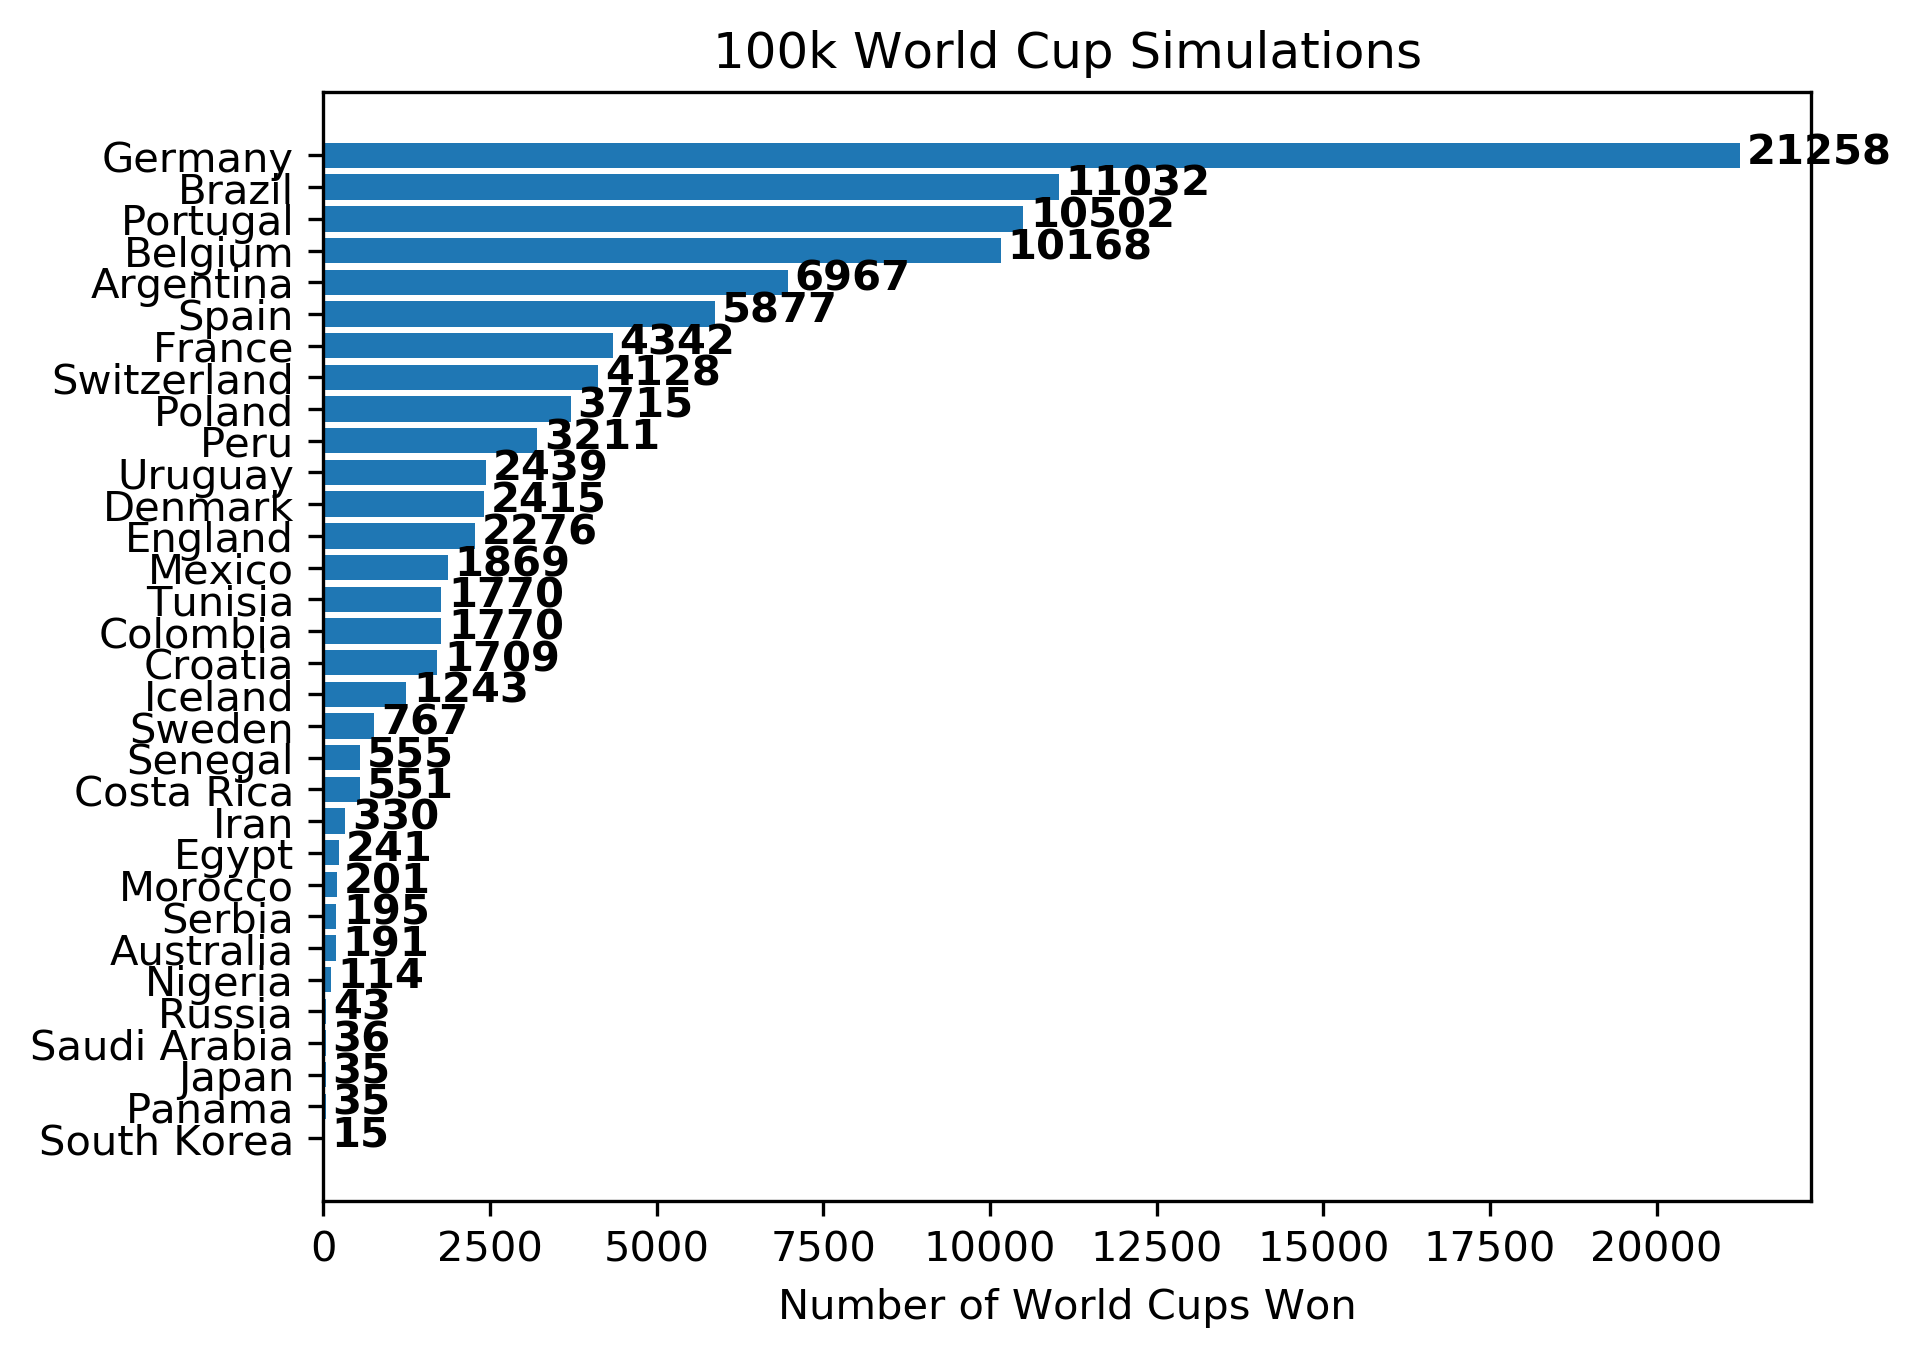
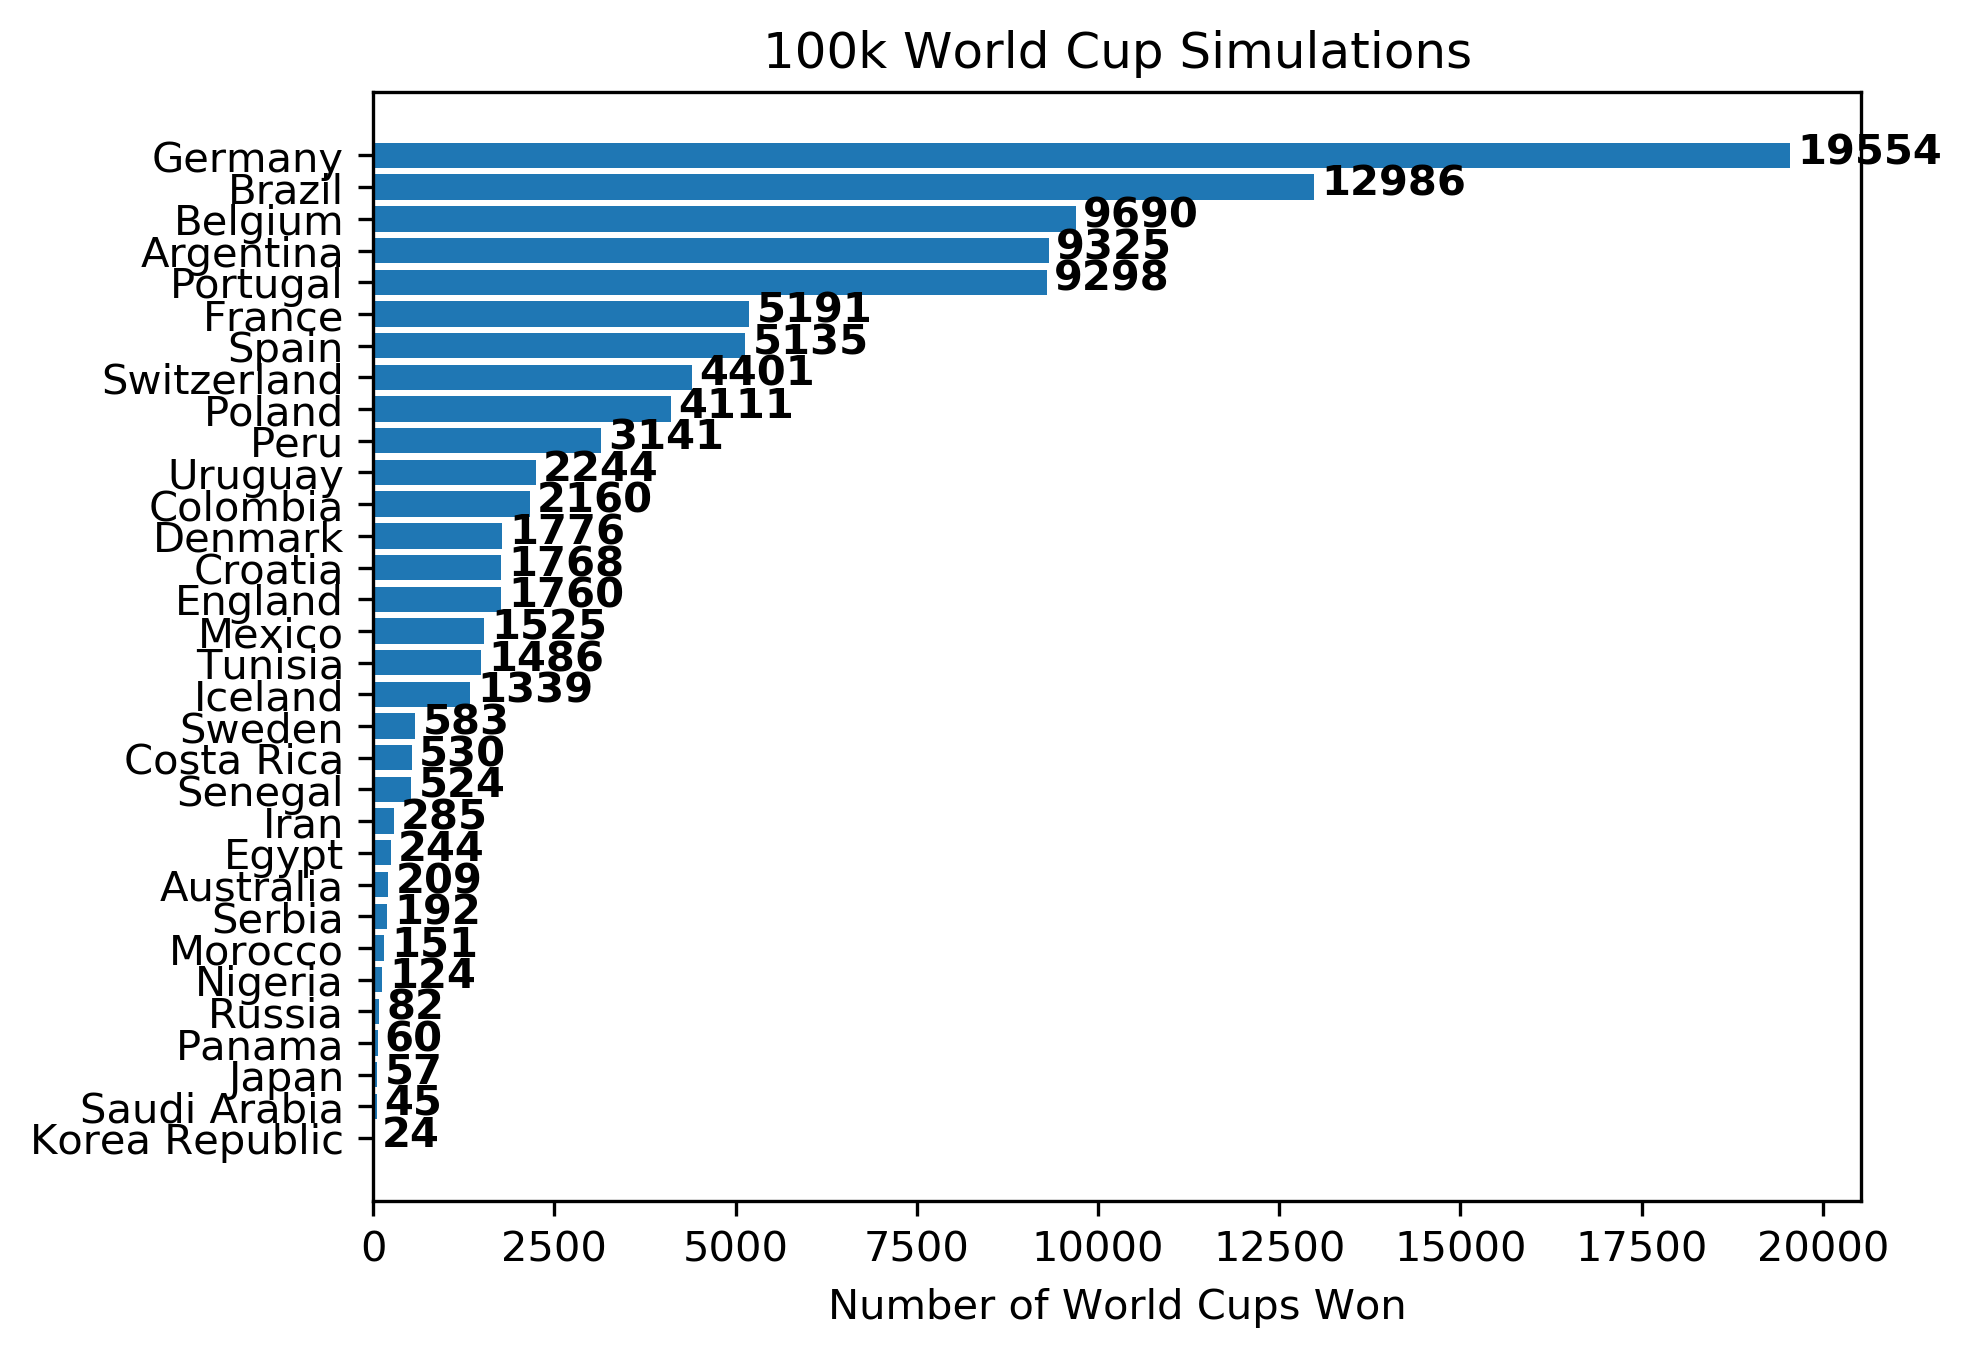
removed individual game reporting as standard. Improved the example presentation so that exmaples are activated with a true or false command. the results image is from the latest 100K simulations.

diff --git a/World_Cup_2018_Simulator.py b/World_Cup_2018_Simulator.py
@@ -21,7 +21,7 @@ def update_world_points(team1, team2, team1_goals, team2_goals):
         confederation_strength = (team.confederation_weight + opponent.confederation_weight)/2
         # calculate how many points this fixture earned
         points_from_this_fixture = team_points * match_importance * opponent_strength * confederation_strength
-        print(team.team + ' points for this fixture: ' + str(int(points_from_this_fixture)))
+        # print(team.team + ' FIFA points for this fixture: ' + str(int(points_from_this_fixture)))
         # find the total points earned from this year so far
         this_years_points_new = team.this_years_points * team.games_in_last_year + points_from_this_fixture
         # update the number of games
@@ -29,8 +29,8 @@ def update_world_points(team1, team2, team1_goals, team2_goals):
         # re calculate the points earned this year (calculated as an average)
         team.this_years_points = this_years_points_new / team.games_in_last_year
         # update the total points of this team
-        print('Points change for ' + team.team + ' from ' + str(int(team.fifa_points)) + ' to '
-              + str(int(team.previous_years_points + team.this_years_points)))
+        # print('Fifa points change for ' + team.team + ' from ' + str(int(team.fifa_points)) + ' to '
+        #      + str(int(team.previous_years_points + team.this_years_points)))
         new_fifa_points = team.previous_years_points + team.this_years_points
         return new_fifa_points
 
@@ -297,56 +297,65 @@ class Team:
 #####################################################################################################################
 #
 # Use the simulator once and print the results
-world_cup_simulator(reporting=True)
+run_example = False
+if run_example:
+    world_cup_simulator(reporting=True)
 
-## Return the class instance of the winning team without reporting the results
-# champions = world_cup_simulator(reporting=False)
-#
-## Perform multiple world cups and print out only the winner
-# for i in range(100):
-#     print(world_cup_simulator(reporting=False))
-#
-#
-## The user interaction version from JezPalf returning the top 5 winners
-# def multiple_simulations(n):
-#     winners = []
-#     for _ in range(n):
-#         winners.append(str((world_cup_simulator(reporting=False))))
-#
-#     top_five = Counter(winners).most_common(5)
-#     print('The teams with the most world cup wins are:')
-#     pprint.pprint(top_five)
-#
-#
-# answer = input('Would you like a [d]etailed simulation or run [m]ultiple simulations? ')
-# if answer == 'd':
-#     world_cup_simulator(reporting=True)
-#
-# elif answer == 'm':
-#     num = int(input('How many times would you like to run the simulation? '))
-#     multiple_simulations(num)
-#
-## Create statistics of all teams over many world cups
-# winners = []
-# n = 1000
-# for i in range(n):
-#     champs = world_cup_simulator(reporting=False)
-#     print(str(i) + ': ' + str(champs))
-#     winners.append(str(champs))
-#
-# world_cup_winners = Counter(winners).most_common()[:-32-1:-1]
-#
-# teams = []
-# tally = np.zeros((len(world_cup_winners)))
-# for i in range(len(world_cup_winners)):
-#     teams.append(world_cup_winners[i][0])
-#     tally[i] = world_cup_winners[i][1]
-#
-# fig, ax = plt.subplots()
-# plt.barh(np.arange(0, len(world_cup_winners)), tally, tick_label=teams)
-# plt.xlabel('Number of World Cups Won')
-# plt.title(str(int(n/1000)) + 'k World Cup Simulations')
-# for i, v in enumerate(tally):
-#     ax.text(v + int(round(n*0.001)), i-0.25, str(int(v)), color='black', fontweight='bold')
-# plt.savefig('results.png', dpi=300, format='png', bbox_inches='tight')
-# plt.show()
+# Return the class instance of the winning team without reporting the results
+run_example = False
+if run_example:
+    champions = world_cup_simulator(reporting=False)
+
+# Perform multiple world cups and print out only the winner
+run_example = False
+if run_example:
+    for i in range(100):
+        print(world_cup_simulator(reporting=False))
+
+
+# The user interaction version from JezPalf returning the top 5 winners
+run_example = False
+if run_example:
+
+    def multiple_simulations(n):
+        wc_champs = []
+        for _ in range(n):
+            wc_champs.append(str((world_cup_simulator(reporting=False))))
+
+        top_five = Counter(wc_champs).most_common(5)
+        print('The teams with the most world cup wins are:')
+        pprint.pprint(top_five)
+
+
+    answer = input('Would you like a [d]etailed simulation or run [m]ultiple simulations? ')
+    if answer == 'd':
+        world_cup_simulator(reporting=True)
+
+    elif answer == 'm':
+        num = int(input('How many times would you like to run the simulation? '))
+        multiple_simulations(num)
+
+
+# Create statistics of all teams over many world cups
+run_example = True
+if run_example:
+    winners = []
+    n = 100000
+    for i in range(n):
+        champs = world_cup_simulator(reporting=False)
+        print(str(i) + ': ' + str(champs))
+        winners.append(str(champs))
+    world_cup_winners = Counter(winners).most_common()[:-32-1:-1]
+    teams = []
+    tally = np.zeros((len(world_cup_winners)))
+    for i in range(len(world_cup_winners)):
+        teams.append(world_cup_winners[i][0])
+        tally[i] = world_cup_winners[i][1]
+    fig, ax = plt.subplots()
+    plt.barh(np.arange(0, len(world_cup_winners)), tally, tick_label=teams)
+    plt.xlabel('Number of World Cups Won')
+    plt.title(str(int(n/1000)) + 'k World Cup Simulations')
+    for i, v in enumerate(tally):
+        ax.text(v + int(round(n*0.001)), i-0.25, str(int(v)), color='black', fontweight='bold')
+    plt.savefig('results.png', dpi=300, format='png', bbox_inches='tight')
+    plt.show()
